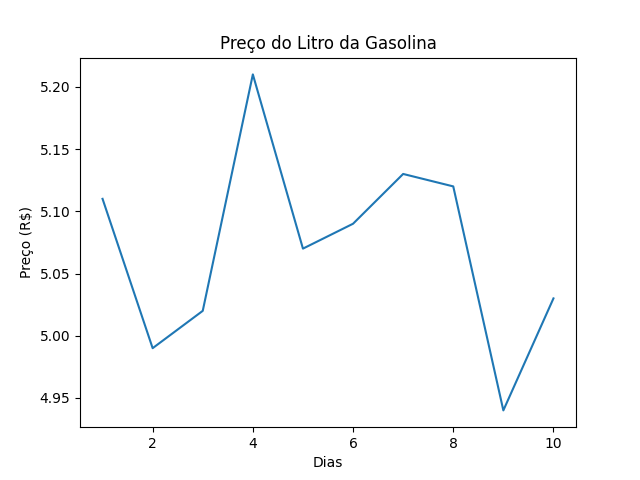
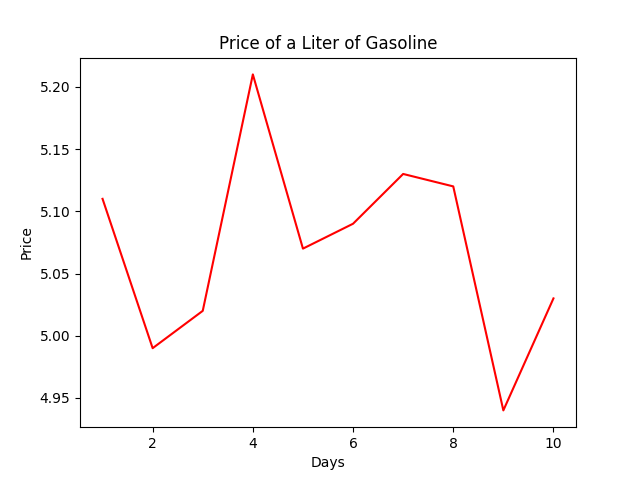
alteracao de idioma

diff --git a/gasolina.py b/gasolina.py
@@ -1,11 +1,10 @@
 
-      import pandas as pd
-      import seaborn as sns
-      import matplotlib.pyplot as plt
+import pandas as pd
+import seaborn as sns
+import matplotlib.pyplot as plt
 
-      df = pd.read_csv('gasolina.csv', delimiter=',',encoding='utf8')
-
-      data = sns.lineplot(x='dia', y='venda', data=df)
-      data.set(title='Preço do Litro da Gasolina', xlabel='Dias', ylabel='Preço (R$)')
-      plt.savefig('gasolina.png')
+df = pd.read_csv('gasolina.csv', delimiter=',', encoding='utf8')
+data = sns.lineplot(x='dia', y='venda', data=df, color='red')
+data.set(title='Price of a Liter of Gasoline', xlabel='Days', ylabel='Price')
+plt.savefig('gasolina.png')
   
